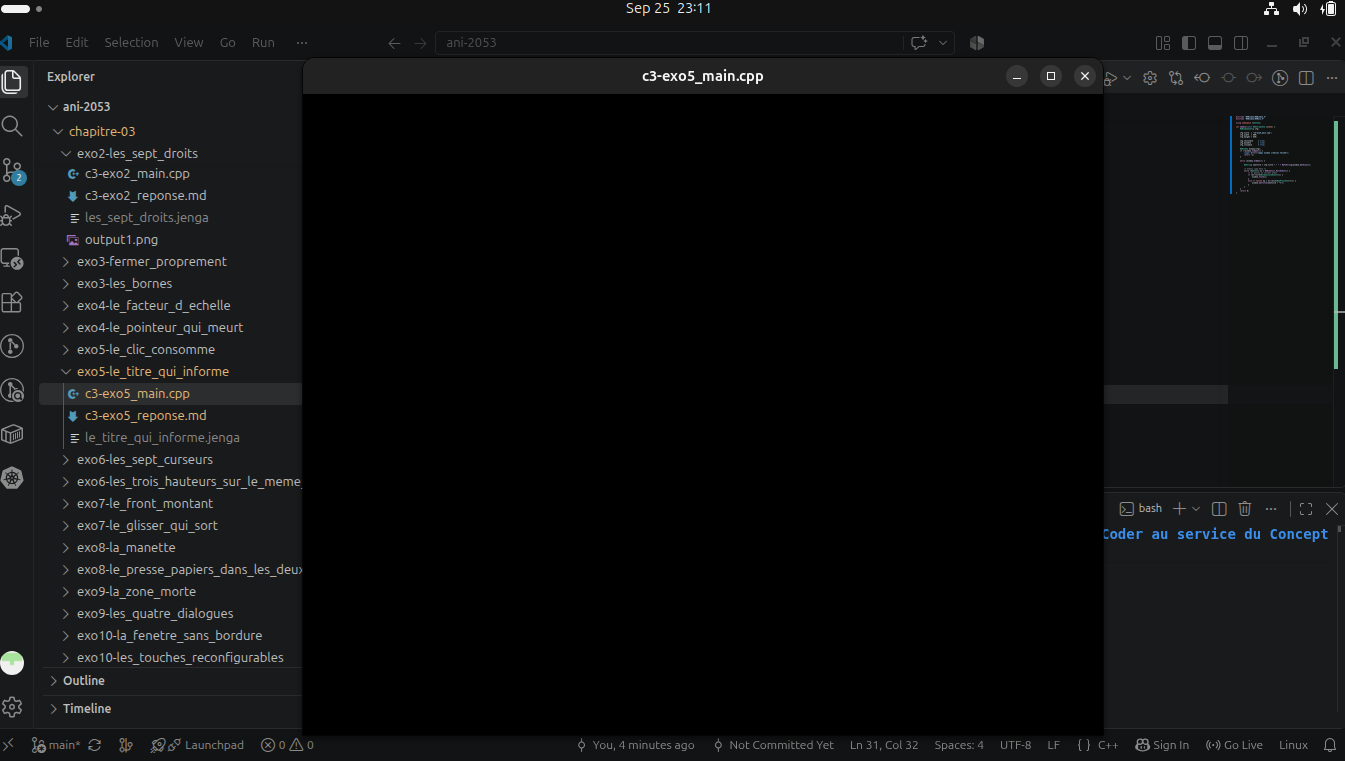
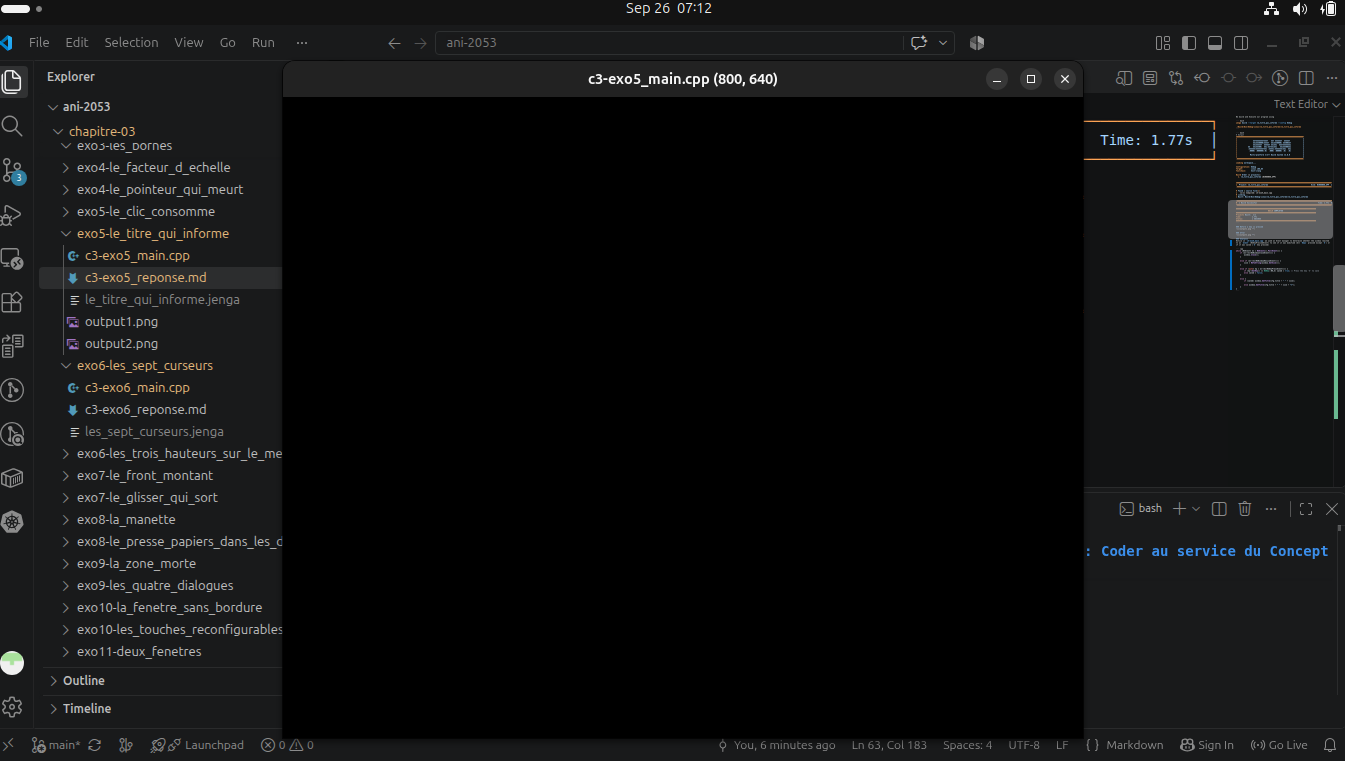
Correction1 Chap-03/Exo-05-1

diff --git a/chapitre-03/exo5-le_titre_qui_informe/c3-exo5_main.cpp b/chapitre-03/exo5-le_titre_qui_informe/c3-exo5_main.cpp
@@ -20,18 +20,29 @@ int nkmain(const NkEntryState &state) {
         return -1;
     }
 
-    while (window.IsOpen()) { 
-        
-        NkString newTitle = cfg.title + " " + NkToString(window.GetSize());
+    NkString size = "";
+    bool saved = true;
 
-        /* events come here */
+    while (window.IsOpen()) {
+
         while (NkEvent* ev = NkEvents().PollEvent()) {
-            // ev points to current event
             if (ev->Is<NkWindowCloseEvent>()) {
                 window.Close();
             }
+
+            else if (ev->Is<NkWindowResizeEvent>()) {
+                size = NkToString(window.GetSize());
+            }
+
             else if (auto* kp = ev->As<NkKeyPressEvent>()) {
-                window.SetTitle(newTitle + "*");
+                if (kp->GetKey() == NkKey::NK_S) saved = true; // Press the key 'S' to save
+                else saved = false;
+            } 
+
+            else {
+                if (saved) window.SetTitle(cfg.title + " " + size);
+
+                else window.SetTitle(cfg.title + " " + size + "*");
             }
         }
     }

diff --git a/chapitre-03/exo5-le_titre_qui_informe/c3-exo5_reponse.md b/chapitre-03/exo5-le_titre_qui_informe/c3-exo5_reponse.md
@@ -41,35 +41,46 @@ Build Order (1 projects):
 ✓ Built: Build/Bin/Debug-Linux/le_titre_qui_informe/le_titre_qui_informe
 
 ┌──────────────────────────────────────────────────────────────────────────────────────────────┐
-│  ✓ Build Successful                                                             Time: 1.77s  │
+│  ✓ Build Successful                                                             Time: 1.75s  │
 └──────────────────────────────────────────────────────────────────────────────────────────────┘
 
 ════════════════════════════════════════════════════════════════════════════════
                                 BUILD COMPLETED                                 
 ════════════════════════════════════════════════════════════════════════════════
 Projects Built:  1/1
-Time:           1.77s
+Time:           1.75s
 Status:         ✓ SUCCESS
 ════════════════════════════════════════════════════════════════════════════════
 ```
 
-### Before a key is pressed
+### Before a key is pressed or Window is been resized
 ![](output1.png "")
 
 ### After 
 ![](output2.png "")
 
 ### Analysis
-Notice in `c3-exo5_main.cpp` we used an Event manager to determine whether the windoww reacted to an `event` (NkKeyPressedEvent) to show our program was in the modified state.
+Notice in `c3-exo5_main.cpp` we used an Event manager to determine whether the window reacted to an `event` (NkKeyPressedEvent) to see if it was modified (All `Keys` pressed except `S`) or if it was saved (`S` key pressed)
 
 ``` cpp
-        while (NkEvent* ev = NkEvents().PollEvent()) {
-            // ev points to current event
-            if (ev->Is<NkWindowCloseEvent>()) {
-                window.Close();
-            }
-            else if (auto* kp = ev->As<NkKeyPressEvent>()) {
-                window.SetTitle(newTitle + "*");
-            }
-        }
+while (NkEvent* ev = NkEvents().PollEvent()) {
+    if (ev->Is<NkWindowCloseEvent>()) {
+        window.Close();
+    }
+
+    else if (ev->Is<NkWindowResizeEvent>()) {
+        size = NkToString(window.GetSize());
+    }
+
+    else if (auto* kp = ev->As<NkKeyPressEvent>()) {
+        if (kp->GetKey() == NkKey::NK_S) saved = true; // Press the key 'S' to save
+        else saved = false;
+    } 
+
+    else {
+        if (saved) window.SetTitle(cfg.title + " " + size);
+
+        else window.SetTitle(cfg.title + " " + size + "*");
+    }
+}
 ```
